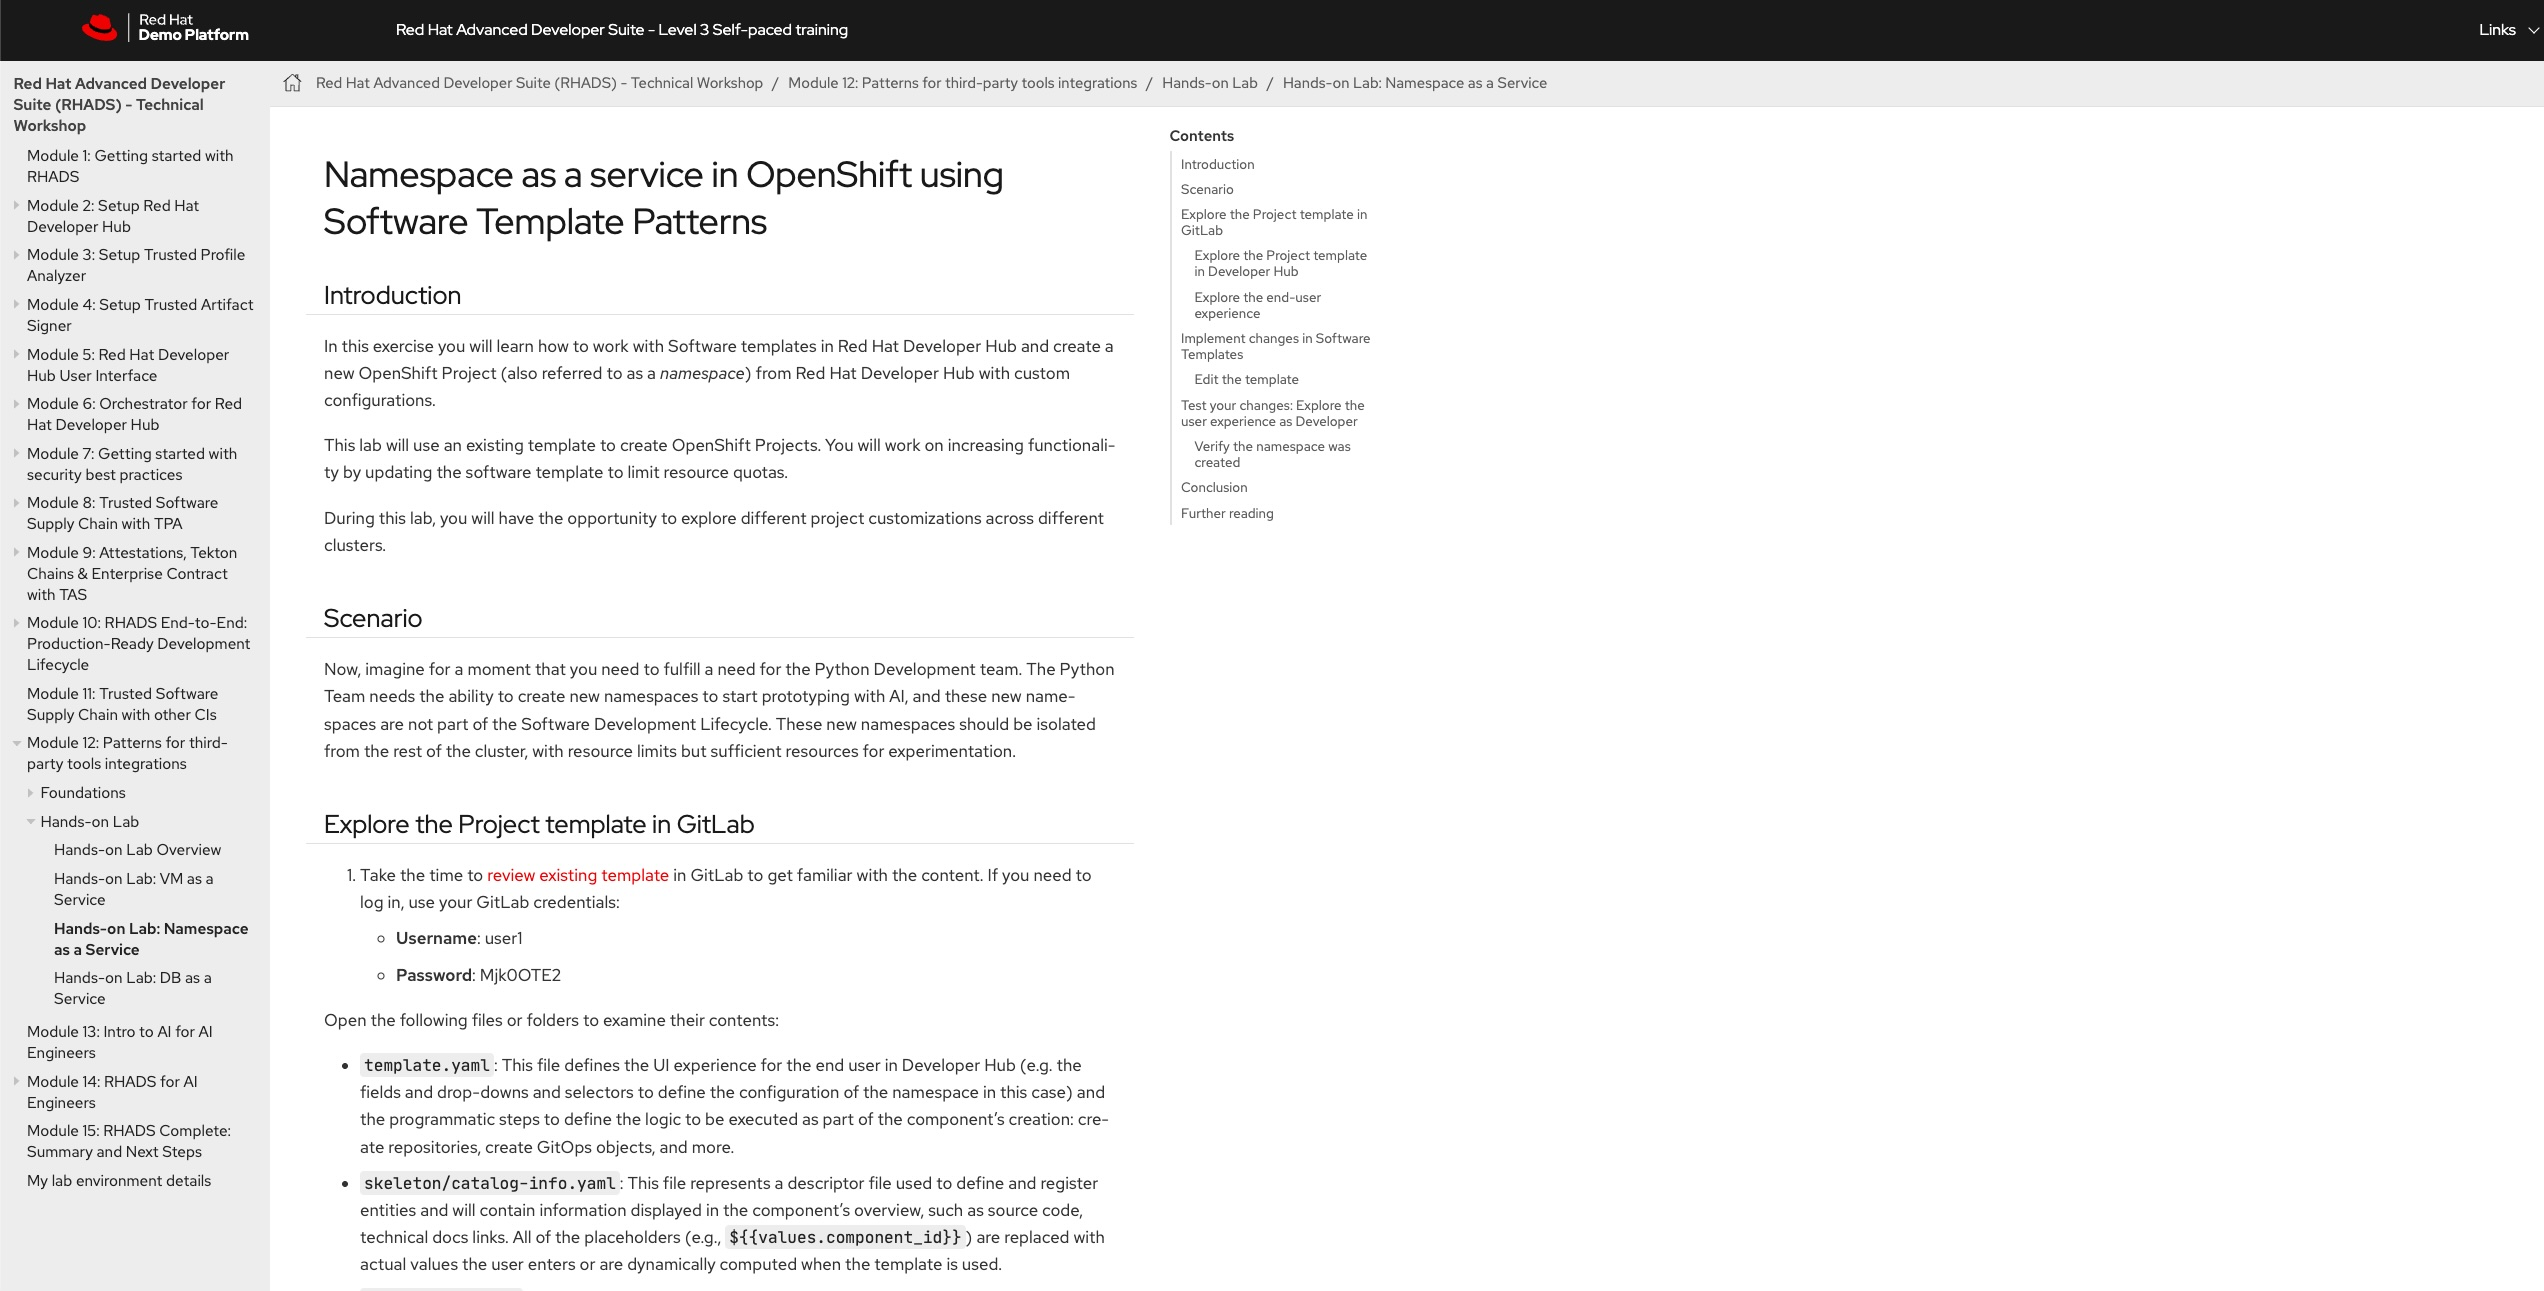
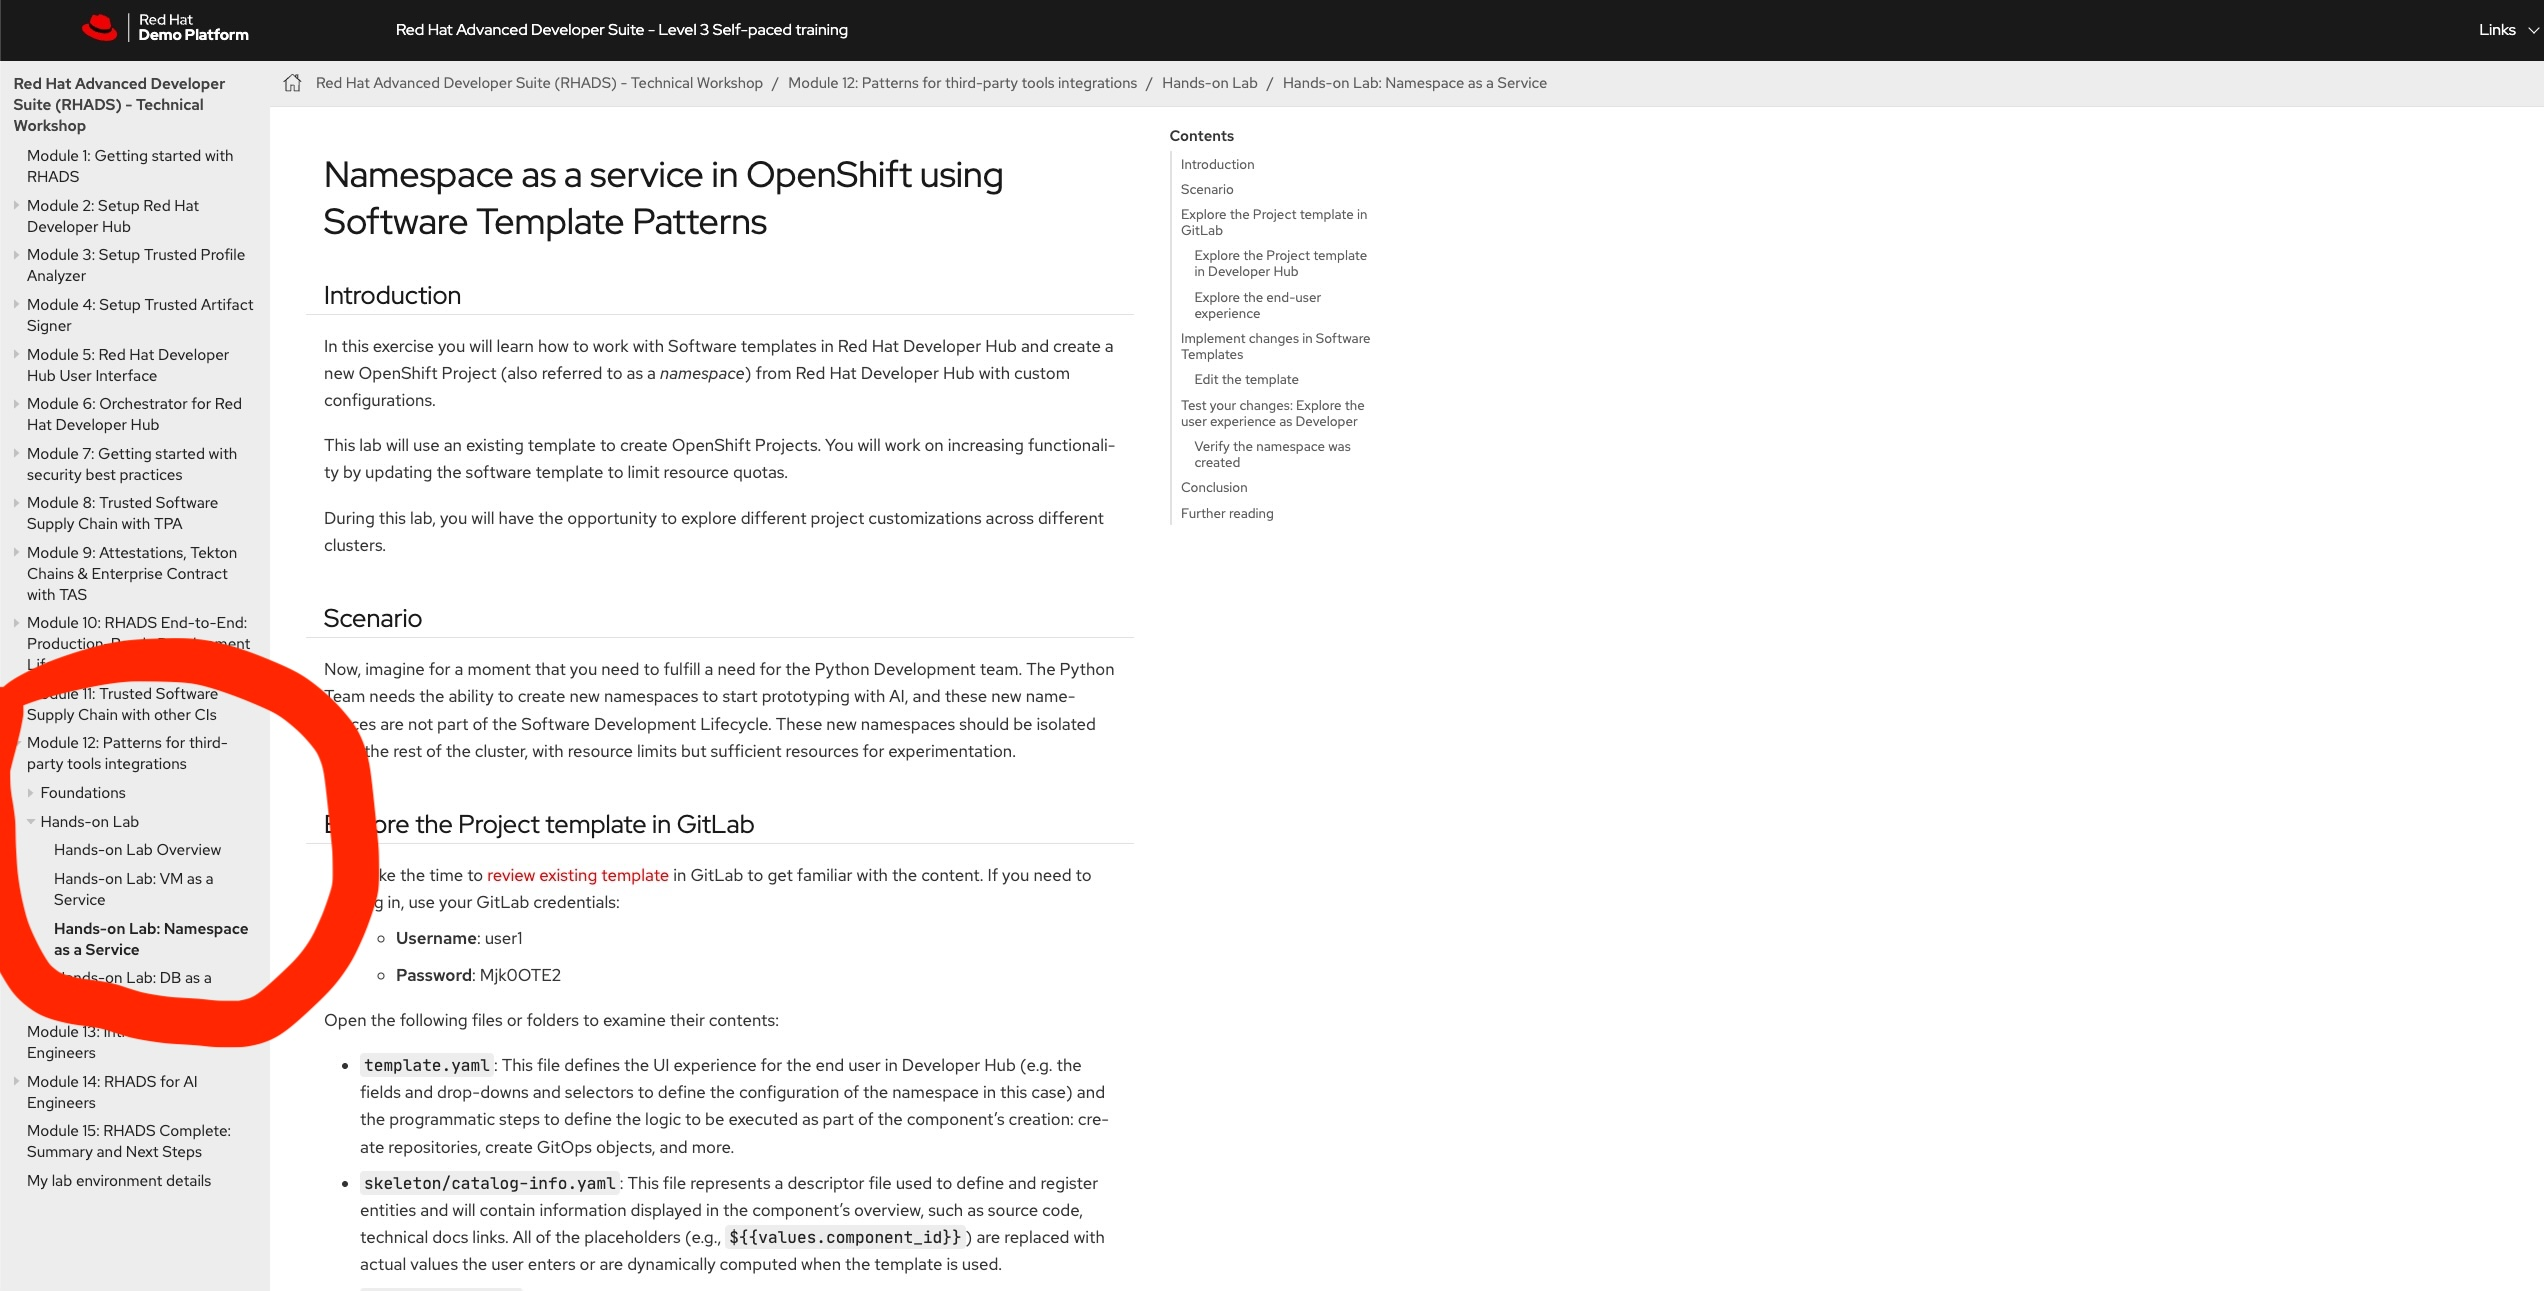
update modeule1

Changed region(s): [[0.0, 0.4957, 0.1553, 0.8366]]

diff --git a/docs/content/setup/setup.md b/docs/content/setup/setup.md
@@ -1,6 +1,7 @@
 # Workshop Architecture Note
 
-Following a real world architecture, the workshop is deployed with clear separtaion of Ansible Automation Platform is deployed in a completly separate environment is outside of the Target OpenShift Cluster.
+Following a real world architecture, the workshop is deployed with clear separation. 
+Ansible Automation Platform is deployed in a completly separate environment is outside of the Target OpenShift Cluster.
 A centralised AAP instance governing multiple OpenShift clusters is exactly how enterprise customers deploy it.  
 
 !!! info "Deployment Model"
@@ -9,7 +10,7 @@ A centralised AAP instance governing multiple OpenShift clusters is exactly how 
     - **AAP** — hosts Automation Controller and EDA Decision Controller
     - **OpenShift (RHADS)** — target cluster running RHDH, Orchestrator, GitOps, and workloads
 
-    EDA authenticates to OpenShift remotely via a ServiceAccount bearer token.
+    EDA authenticates to OpenShift remotely via a ServiceAccount bearer token.  
     This reflects a real-world enterprise model where a centralised AAP instance
     governs multiple OpenShift clusters.
 
@@ -30,38 +31,38 @@ A centralised AAP instance governing multiple OpenShift clusters is exactly how 
     Target cluster with GitOps, Pipelines, Monitoring Stack, and RHDH with Orchestrator pre-installed.
     **OpenShift 4.18+ with RHDH**
 
-    > AAP lives **outside** the OpenShift cluster — this is intentional.
-    > EDA connects to OpenShift remotely using a ServiceAccount bearer token.
+    > AAP lives **outside** the OpenShift cluster — this is intentional.  
+    > EDA connects to OpenShift remotely using a ServiceAccount bearer token.  
 
 
 ## RHADS Request Page
 
 ![Image1](../images/setup/page2_rhads.jpg)  
 
-Once you have put in email id (this is just assignment purpose)
-You will see below, you will need the things in marked in red circles.
+Once you have put in email id (this is just assignment purpose)  
+You will see below, you will need the things in marked in red circles.  
 
 ![Image1](../images/setup/page5_rhads_showroom.jpg)  
 
 ![Image1](../images/setup/page6_rhads_ocp.jpg)  
 
->  Please open below in seperate brower tab 
->  1. Showroom url, please keep it open in a separate tab
->  2. Red Hat Developer Hub details, please keep it open in a separate tab
->  3. GitLab details, please keep it open in a separate tab
->  4. Red Hat OpenShift, this is your Target OpenShift Cluster
+>  Please open below in seperate brower tab  
+>  1. Showroom url, please keep it open in a separate tab  
+>  2. Red Hat Developer Hub details, please keep it open in a separate tab  
+>  3. GitLab details, please keep it open in a separate tab  
+>  4. Red Hat OpenShift, this is your Target OpenShift Cluster  
 
 
 ## Ansible Request Page
 ![Image1](../images/setup/page3_ansible.jpg)  
 
-Once you have put in email id (this is just assignment purpose)
-You will see below, you will need the things in marked in red circles.
+Once you have put in email id (this is just assignment purpose)  
+You will see below, you will need the things in marked in red circles.  
 
 ![Image1](../images/setup/page4_ansible_details.jpg)  
 
->  Please open below in seperate brower tab 
->  1. Automation Controller Credentials and URL, please keep it open in a separate tab
+>  Please open below in seperate brower tab  
+>  1. Automation Controller Credentials and URL, please keep it open in a separate tab  
 
 !!! success "Congratulations!"
     You have successfully completed this section.

diff --git a/docs/content/modules/module_1/module1.md b/docs/content/modules/module_1/module1.md
@@ -1,70 +1,48 @@
 # Declarative Infrastructure  
 
-## Overview       
+## Overview
+
+Welcome to module 1, this is also the simplest and easiet out three.  
+This is divided in two parts:  
+1. You provision a namespace using software templates in Developer Hub.  
+2. You will be a creating a Cluster Roles, Service Accounts and Role Bindings as prepartion for the Module 2 of this workshop.
 
 ## Architecture    
+![Image1](../../images/module/module_1/ocp_rhdh_gitops.jpg)  
 
-```mermaid
-graph LR
-    %% Color Palette Configurations
-    classDef rhdh fill:#151515,stroke:#326ce5,stroke-width:2px,color:#fff;
-    classDef repo fill:#2d3748,stroke:#4a5568,stroke-width:2px,color:#fff;
-    classDef gitops fill:#151515,stroke:#ff4500,stroke-width:2px,color:#fff;
-    classDef ocp fill:#151515,stroke:#ee0000,stroke-width:2px,color:#fff;
+This has two parts:
 
-    %% --- COLUMN 1: DEVELOPER PORTAL ---
-    subgraph Portal_Layer [Internal Developer Portal]
-        RHDH["Red Hat Developer Hub (RHDH)<br><small>Self-service portal</small>"]
-    end
-    class Portal_Layer,RHDH rhdh;
+!!! note "Part 1"
 
-    %% --- COLUMN 2: VERSION CONTROL ---
-    subgraph Source_Layer [Version Control]
-        GitRepo["Git Repository<br><small>Declarative<br>Manifests</small>"]
-    end
-    class Source_Layer,GitRepo repo;
+    For this part of the module you will have to use user guide avaible in the showroom link (as shown in the pic).
+    Module 12 in the showroom link is the Part 1 of this module.
 
-    %% --- COLUMN 3: GITOPS ENGINE ---
-    subgraph GitOps_Layer [GitOps]
-        Argo["Argo CD<br><small>Monitors<br>Git<br>for<br>changes</small>"]
-    end
-    class GitOps_Layer,Argo gitops;
+![Image1](../../images/module/module_1/naas.jpg)  
 
-    %% --- COLUMN 4: INFRASTRUCTURE ---
-    subgraph OCP_Layer [Red Hat OpenShift Platform]
-        subgraph Target_Clusters [Target Cluster]
-            Na["Namespace a"]
-            Nb["Namespace b"]
-            Nc["Namespace c..."]
-        end
-        MCM["Multi-cluster management"]
-    end
-    class OCP_Layer,Target_Clusters,Na,Nb,Nc,MCM ocp;
+**we working to have towards creating an integrate experience and adding Trusted Software Supply chain to this worskhop**
 
-    %% --- RELATIONSHIPS & FLOW LINES ---
-    RHDH -->|1. Triggers Software Template| GitRepo
-    Argo -->|2. Pulls & Monitors Code Changes| GitRepo
-    Argo -->|3. Reconciles & Auto-Deploys| Target_Clusters
-```
+!!! note "Part 2"
+
+    this is basically prepartion for module 2 in the workshop. you will be using the same OpenShift Cluster.
+    
+
+**we working to have towards creating an integrate experience and adding Trusted Software Supply chain to this worskhop**
 
 ## Component
 
 | Component | Description |
 | :--- | :--- |
 | **Red Hat Developer Hub (RHDH)** | Enterprise-grade developer portal providing convenient access to curated resources and promoting efficiency and collaboration |
-| **Openshift** | Target Platform |  
-| **Openshift Gitops** | GitOps |
+| **OpenShift** | Target Platform |  
+| **OpenShift GitOps** | GitOps |
 
 
-> ## Use Case to explore (not part of the workshop) 
-> VM as a Service
-> DB as a Service (Data Grid)
+!!! tip "Use Case to explore - Not part of the workshop"
 
+    VM as a Service
 
-## Prerequisites   
->
-> Openshift 4.18+ with Gitops, Pipeline, Monitoring Stack, RHDH with Orchestrator
->
+    DB as a Service (Data Grid)
+
 
 ## Further Reading
-
+[Red Hat Advance Developer Suite](https://www.redhat.com/en/products/advanced-developer-suite)
